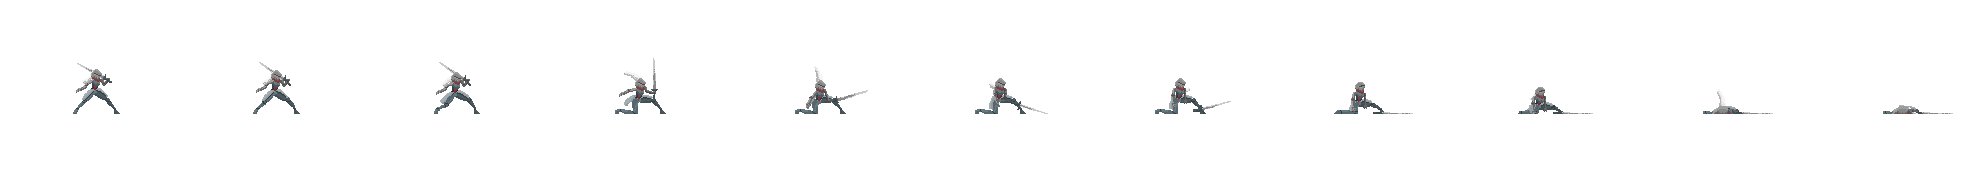
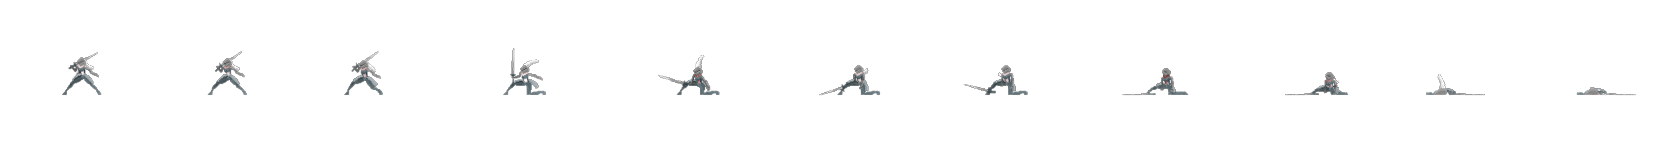
feat: created death animation

diff --git a/js/index.js b/js/index.js
@@ -76,6 +76,15 @@ const player = new Fighter({
       image: new Image(),
       framesHold: 2,
     },
+    takeHit: {
+      imageSrc: "./assets/player/Take hit.png",
+      framesMax: 3,
+    },
+    death: {
+      imageSrc: "./assets/player/Death.png",
+      framesMax: 7,
+      scale: 3.5,
+    },
   },
   attackBox: {
     offset: {
@@ -102,10 +111,10 @@ const enemy = new Fighter({
   },
   imageSrc: "./assets/enemy/idle.png",
   framesMax: 11,
-  scale: 3.2,
+  scale: 3.1,
   offset: {
     x: 160,
-    y: 174,
+    y: 162,
   },
   sprites: {
     idle: {
@@ -136,6 +145,15 @@ const enemy = new Fighter({
       framesMax: 7,
       image: new Image(),
       framesHold: 2,
+    },
+    takeHit: {
+      imageSrc: "./assets/enemy/Take hit.png",
+      framesMax: 4,
+    },
+    death: {
+      imageSrc: "./assets/enemy/Death.png",
+      framesMax: 11,
+      scale: 3.85,
     },
   },
   attackBox: {
@@ -226,8 +244,8 @@ function animate() {
     player.isAttacking &
     (player.framesCurrent === 3)
   ) {
+    enemy.takeHit();
     player.isAttacking = false;
-    enemy.health -= 20;
     document.querySelector("#enemy-health").style.width = enemy.health + "%";
   }
 
@@ -236,8 +254,8 @@ function animate() {
     enemy.isAttacking &
     (enemy.framesCurrent === 3)
   ) {
+    player.takeHit();
     enemy.isAttacking = false;
-    player.health -= 20;
     document.querySelector("#player-health").style.width = player.health + "%";
   }
 
@@ -252,36 +270,45 @@ function animate() {
 animate();
 
 window.addEventListener("keydown", (event) => {
-  switch (event.key) {
-    case "w":
-      player.velocity.y = -20;
-      break;
-    case "a":
-      keys.a.pressed = true;
-      player.lastKey = "a";
-      break;
-    case "d":
-      keys.d.pressed = true;
-      player.lastKey = "d";
-      break;
-    case " ":
-      player.attack();
-      break;
+  if (player.dead || enemy.dead) {
+    return;
+  }
 
-    case "ArrowUp":
-      enemy.velocity.y = -20;
-      break;
-    case "ArrowLeft":
-      keys.ArrowLeft.pressed = true;
-      enemy.lastKey = "ArrowLeft";
-      break;
-    case "ArrowRight":
-      keys.ArrowRight.pressed = true;
-      enemy.lastKey = "ArrowRight";
-      break;
-    case "0":
-      enemy.attack();
-      break;
+  if (!player.dead) {
+    switch (event.key) {
+      case "w":
+        player.velocity.y = -20;
+        break;
+      case "a":
+        keys.a.pressed = true;
+        player.lastKey = "a";
+        break;
+      case "d":
+        keys.d.pressed = true;
+        player.lastKey = "d";
+        break;
+      case " ":
+        player.attack();
+        break;
+    }
+  }
+  if (!enemy.dead) {
+    switch (event.key) {
+      case "ArrowUp":
+        enemy.velocity.y = -20;
+        break;
+      case "ArrowLeft":
+        keys.ArrowLeft.pressed = true;
+        enemy.lastKey = "ArrowLeft";
+        break;
+      case "ArrowRight":
+        keys.ArrowRight.pressed = true;
+        enemy.lastKey = "ArrowRight";
+        break;
+      case "0":
+        enemy.attack();
+        break;
+    }
   }
 });
 

diff --git a/js/classes.js b/js/classes.js
@@ -91,6 +91,7 @@ class Fighter extends Sprite {
     this.framesElapsed = 0;
     this.framesHold = 4;
     this.sprites = sprites;
+    this.dead = false;
     for (const sprite in sprites) {
       sprites[sprite].image = new Image();
       sprites[sprite].image.src = sprites[sprite].imageSrc;
@@ -107,7 +108,7 @@ class Fighter extends Sprite {
     // }
 
     this.draw();
-    this.animateFrames();
+    if (!this.dead) this.animateFrames();
     this.attackBox.position.x = this.position.x + this.attackBox.offset.x;
     this.attackBox.position.y = this.position.y + this.attackBox.offset.y;
 
@@ -134,10 +135,31 @@ class Fighter extends Sprite {
     this.isAttacking = true;
   }
 
+  takeHit() {
+    this.health -= 10;
+    this.framesCurrent = 0;
+    if (this.health <= 0) {
+      this.switchSprite("death");
+    } else {
+      this.switchSprite("takeHit");
+    }
+  }
+
   switchSprite(sprite) {
+    if (this.image === this.sprites.death.image) {
+      if (this.framesCurrent === this.sprites.death.framesMax - 1)
+        this.dead = true;
+      return;
+    }
     if (
       this.image === this.sprites.attack.image &&
       this.framesCurrent < this.sprites.attack.framesMax - 1
+    )
+      return;
+
+    if (
+      this.image === this.sprites.takeHit.image &&
+      this.framesCurrent < this.sprites.takeHit.framesMax - 1
     )
       return;
     switch (sprite) {
@@ -178,6 +200,20 @@ class Fighter extends Sprite {
           this.image = this.sprites.attack.image;
           this.framesMax = this.sprites.attack.framesMax;
           this.framesHold = this.sprites.attack.framesHold;
+          this.framesCurrent = 0;
+        }
+        break;
+      case "takeHit":
+        if (this.image !== this.sprites.takeHit.image) {
+          this.image = this.sprites.takeHit.image;
+          this.framesMax = this.sprites.takeHit.framesMax;
+        }
+        break;
+      case "death":
+        if (this.image !== this.sprites.death.image) {
+          this.image = this.sprites.death.image;
+          this.framesMax = this.sprites.death.framesMax;
+          this.scale = this.sprites.death.scale;
           this.framesCurrent = 0;
         }
         break;
